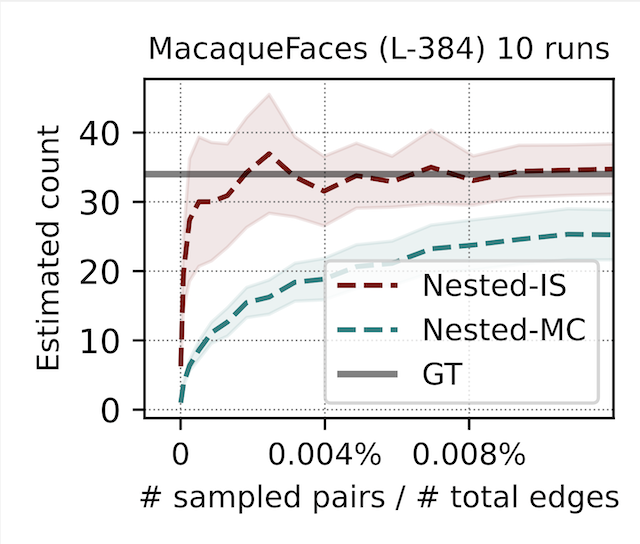
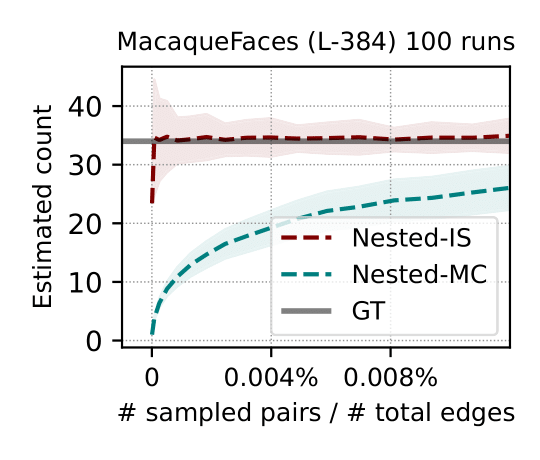
remove softmax from similarity calculation

Changed region(s): [[0.0593, 0.0609, 0.9778, 0.9435], [0.3556, 0.4261, 0.3852, 0.4565]]

diff --git a/src/methods.py b/src/methods.py
@@ -3,14 +3,6 @@ from random import choices
 from scipy.spatial.distance import pdist, squareform
 
 
-def softmax_t(x, tau):
-    """ Returns softmax probabilities with temperature tau
-        Input:  x -- 1-dimensional array
-        Output: s -- 1-dimensional array
-    """
-    e_x = np.exp(x / tau)
-    return e_x / e_x.sum()
-
 def calculate_similarity(data, metric='cisne', tau=0.5):
     '''
     Calculate pair-wise similarity of all elements in dataset. It is produced between each sample features using
@@ -42,11 +34,9 @@ def calculate_similarity(data, metric='cisne', tau=0.5):
     dists = 1 - dists
     s_ij = squareform(dists) # convert to matrix
     s_ij[s_ij == 0] = 1 # add 1s to the matrix diagonal
-    s_ij_sm = np.zeros_like(s_ij)
-    for i, s_ij_i in enumerate(s_ij):
-        s_ij_sm[i, :] = softmax_t(s_ij_i, tau)
+    s_ij[s_ij < 0] = 0 # clip negative values
 
-    return s_ij_sm
+    return s_ij
 
 def nested_is(gt_s_ij, s_ij, N_v, N_n, n_hat=None, ci=False):
     '''

diff --git a/run_estimator.py b/run_estimator.py
@@ -20,7 +20,6 @@ def parse_args():
     parser.add_argument('--pretraining', type=str, default='megad', help='for features')
     parser.add_argument('--metric', type=str, default='cosine', help='for similarity')
     parser.add_argument('--ratio', type=int, default=1, help='Nn/Nv ratio (use 7 for GiraffeZebraID)')
-    parser.add_argument('--tau', type=float, default=0.5, help='temperature for similarity softmax')
     parser.add_argument('--runs', type=int, default=10, help='number of runs to plot results')
     parser.add_argument('--seed', type=int, default=0, help='seed for features')
     parser.add_argument('--verbose', action='store_true', help='print intermediate progress')
@@ -62,7 +61,7 @@ if __name__ == '__main__':
             cont += 1
             current_label = meta[i]['label']
         feats[cont].append(feat)
-    s_ij = calculate_similarity(feats, metric=args.metric, tau=args.tau)
+    s_ij = calculate_similarity(feats, metric=args.metric)
     print('done %s [%.1fs]'%(str(s_ij.shape), time.time() - ti))
 
     # Calculate Nested-IS and Nested-MC estimates

diff --git a/compute_features.py b/compute_features.py
@@ -6,7 +6,7 @@ import numpy as np
 from os.path import join
 
 sys.path.insert(0, 'src')
-from datasets import Datasets
+from datasets_ import Datasets
 
 import torch
 import torch.nn as nn

diff --git a/README.md b/README.md
@@ -87,14 +87,14 @@ Our approach provides a statistical estimate of the number of clusters based on 
 
 The code provides an implementation of the nested-MC and nested-IS approaches. By default, the script will run each 10 times with approximately 70 different numbers of samples (pairwise comparisons) for human vetting. It then computes the average estimates and confidence intervals across these runs. The script will take around 1 minute for the MacaqueFaces dataset. You can run the estimator with:
 ```
-python run_estimator.py --dataset MacaqueFaces --runs 10
+python run_estimator.py --dataset MacaqueFaces --runs 100
 ```
 The previous command line should display the following:
 ```
->>> [loading MacaqueFaces-L-384-megad features...] done (6280, 1536) [0.0s]
->>> [creating GT matrix...] done (6280, 6280) [4.4s]
->>> [calculating similarity matrix (cosine)...] done (6280, 6280) [18.8s]
->>> [running nested-MC and nested-NIS (10 runs)...] done [0.8m]
+[loading MacaqueFaces-L-384-megad features...] done (6280, 1536) [0.0s]
+[creating GT matrix...] done (6280, 6280) [4.0s]
+[calculating similarity matrix (cosine)...] done (6280, 6280) [14.5s]
+[running nested-MC and nested-NIS (100 runs)...] done [6.9m]
 ```
 
 The script will save the results as `results_MacaqueFaces_L-384_megad.pdf`. You can see the estimates converging to the true value and the confidence intervals getting narrower with more effort.